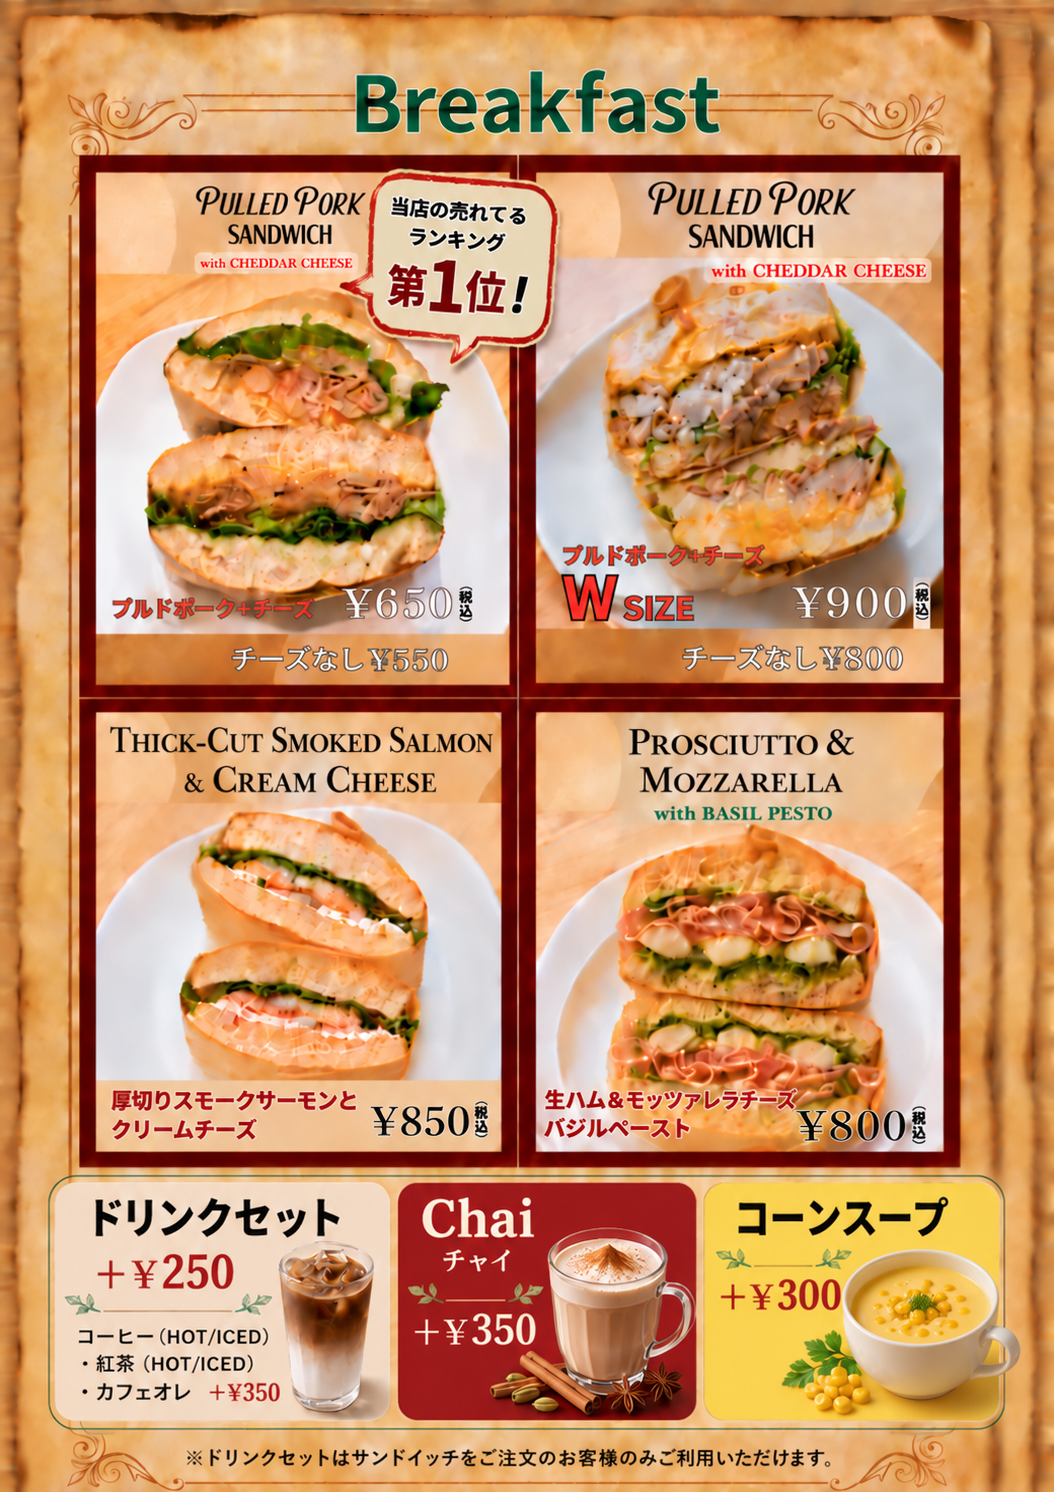
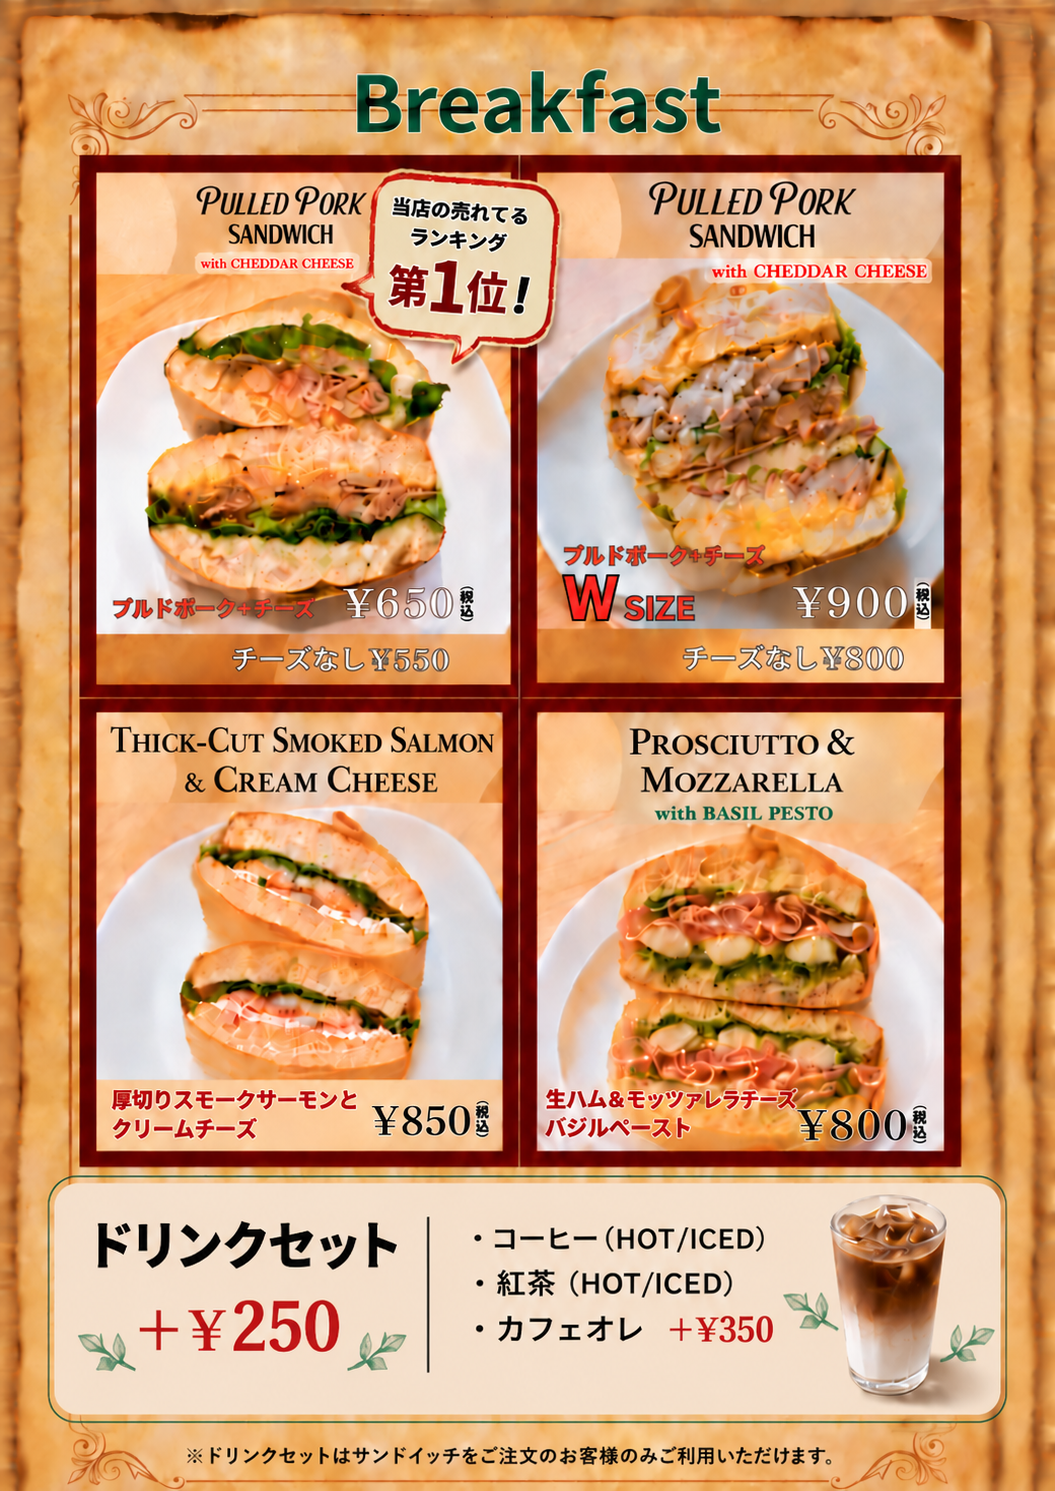
Add files via upload

diff --git a/index.html b/index.html
@@ -15,33 +15,28 @@
       --red: #a52721;
       --shadow: 0 8px 28px rgba(71, 45, 28, .15);
     }
-
     * { box-sizing: border-box; }
     html { scroll-behavior: smooth; }
-
     body {
       margin: 0;
       background:
-        radial-gradient(circle at top, rgba(255,255,255,.9), transparent 32rem),
+        radial-gradient(circle at top, rgba(255,255,255,.92), transparent 32rem),
         var(--bg);
       color: var(--ink);
       font-family: -apple-system, BlinkMacSystemFont, "Hiragino Kaku Gothic ProN",
                    "Yu Gothic", "Noto Sans JP", sans-serif;
     }
-
     header {
       padding: max(24px, env(safe-area-inset-top)) 16px 18px;
       text-align: center;
     }
-
     .brand {
       margin: 0;
       font-family: Georgia, "Times New Roman", serif;
-      font-size: clamp(22px, 6vw, 34px);
+      font-size: clamp(24px, 6vw, 36px);
       line-height: 1.15;
       letter-spacing: .02em;
     }
-
     .subtitle {
       margin: 7px 0 0;
       color: var(--green);
@@ -49,7 +44,6 @@
       font-weight: 800;
       letter-spacing: .18em;
     }
-
     nav {
       position: sticky;
       top: 0;
@@ -58,13 +52,12 @@
       justify-content: center;
       gap: 8px;
       padding: 10px 12px;
-      background: rgba(246, 239, 226, .92);
+      background: rgba(246, 239, 226, .94);
       backdrop-filter: blur(10px);
       -webkit-backdrop-filter: blur(10px);
       border-top: 1px solid rgba(52, 33, 23, .08);
       border-bottom: 1px solid rgba(52, 33, 23, .08);
     }
-
     nav a {
       flex: 1 1 0;
       max-width: 220px;
@@ -77,28 +70,23 @@
       font-weight: 800;
       box-shadow: 0 3px 10px rgba(52, 33, 23, .12);
     }
-
     nav a:first-child { background: var(--green); }
     nav a:last-child { background: var(--red); }
-
     main {
       width: min(100%, 820px);
       margin: 0 auto;
       padding: 18px 12px 42px;
     }
-
     section {
       scroll-margin-top: 72px;
       margin-bottom: 28px;
     }
-
     h2 {
       margin: 0 0 10px;
       text-align: center;
       font-size: 18px;
       letter-spacing: .05em;
     }
-
     .menu-image {
       display: block;
       width: 100%;
@@ -107,35 +95,16 @@
       background: var(--paper);
       box-shadow: var(--shadow);
     }
-
     footer {
       padding: 4px 16px calc(24px + env(safe-area-inset-bottom));
       text-align: center;
       color: rgba(52, 33, 23, .62);
       font-size: 12px;
     }
-
     @media (min-width: 700px) {
       main { padding-left: 24px; padding-right: 24px; }
       .menu-image { border-radius: 18px; }
     }
-
-    /* 2026-10-25 テイクアウトメニュー最新ドリンク欄 */
-    .takeout-menu { border-radius: 14px; overflow: hidden; background: #fff4dd; box-shadow: var(--shadow); }
-    .takeout-image-top { overflow: hidden; aspect-ratio: 1024 / 1056; }
-    .takeout-image-top img { display:block; width:100%; height:auto; }
-    .takeout-drink { position:relative; margin:0 3.5% 1%; padding:2.5% 4% 4%; border:2px solid #276139; border-radius:14px; text-align:center; background:linear-gradient(135deg,#fff5e4,#f8e1ba); color:#163f27; }
-    .drink-heading { font-family:Georgia,serif; font-weight:900; font-size:clamp(24px,7vw,55px); line-height:1.1; letter-spacing:1px; }
-    .drink-subtitle { font-size:clamp(13px,3.5vw,24px); font-weight:700; }
-    .drink-price { color:#c7191f; font-family:Georgia,serif; font-size:clamp(29px,9vw,65px); font-weight:700; line-height:1.25; }
-    .drink-items { color:#28221e; font-weight:700; font-size:clamp(13px,3.7vw,27px); line-height:1.7; }
-    .drink-items strong { color:#bd1c20; }
-    .drink-cups { position:absolute; right:6%; top:26%; font-size:clamp(28px,8vw,70px); opacity:.6; }
-    .takeout-reserve { margin:1% 3.5% 3%; padding:2.8% 4%; display:flex; justify-content:space-between; align-items:center; gap:8px; background:#f4dfbb; border-radius:12px; font-size:clamp(11px,2.8vw,18px); line-height:1.5; }
-    .line-label { color:#04a542; display:flex; gap:8px; align-items:center; font-weight:800; white-space:nowrap; }
-    .line-label strong { background:#06bd4e;color:white;padding:8px 5px;border-radius:7px;font-size:clamp(10px,3vw,16px); }
-    .line-label span { font-size:clamp(10px,2.9vw,17px); }
-    @media (min-width:700px) { .takeout-menu {border-radius:18px;} }
   </style>
 </head>
 <body>
@@ -150,37 +119,19 @@
   </nav>
 
   <main>
-
     <section id="morning" aria-labelledby="morning-title">
       <h2 id="morning-title">モーニングセット｜9:00まで</h2>
-      <img class="menu-image" src="morning-new.png?v=20261025" alt="モーニングセット 550円 9時まで" loading="lazy">
+      <img class="menu-image" src="morning-new.png?v=20261025" alt="モーニングセット 550円 9時まで" loading="eager">
     </section>
-
 
     <section id="eatin" aria-labelledby="eatin-title">
       <h2 id="eatin-title">店内メニュー</h2>
-      <img class="menu-image" src="eatin-latest.png?v=20261025" alt="店内メニュー" width="1024" height="1536">
+      <img class="menu-image" src="eatin-latest.png?v=20261025" alt="店内メニュー" loading="lazy">
     </section>
 
     <section id="takeout" aria-labelledby="takeout-title">
       <h2 id="takeout-title">テイクアウトメニュー</h2>
-      <!-- 最新テイクアウトメニュー：商品写真は既存画像、ドリンク欄は2026-10-25版をHTMLで表示 -->
-      <div class="takeout-menu" aria-label="テイクアウトメニュー">
-        <div class="takeout-image-top">
-          <img src="takeout-latest.png?v=20261025" alt="プルドポーク550円・チーズ入り650円、ダブル800円・チーズ入り900円、スモークサーモン850円、生ハム＆モッツァレラ800円" loading="lazy">
-        </div>
-        <div class="takeout-drink">
-          <div class="drink-heading">DRINK SET</div>
-          <div class="drink-subtitle">ドリンクセット</div>
-          <div class="drink-price">＋¥150</div>
-          <div class="drink-items">コーヒー（HOT / ICED）<br>紅茶（HOT / ICED）<br>カフェオレ <strong>＋¥250</strong></div>
-          <div class="drink-cups" aria-hidden="true">☕</div>
-        </div>
-        <div class="takeout-reserve">
-          <div><strong>ご予約・お取り置きも承ります！</strong><br>お気軽にLINEからご連絡ください。</div>
-          <div class="line-label"><strong>LINE</strong><span>LINEで<br>ご予約OK！</span></div>
-        </div>
-      </div>
+      <img class="menu-image" src="takeout-latest.png?v=20261025" alt="テイクアウトメニュー" loading="lazy">
     </section>
   </main>
 
